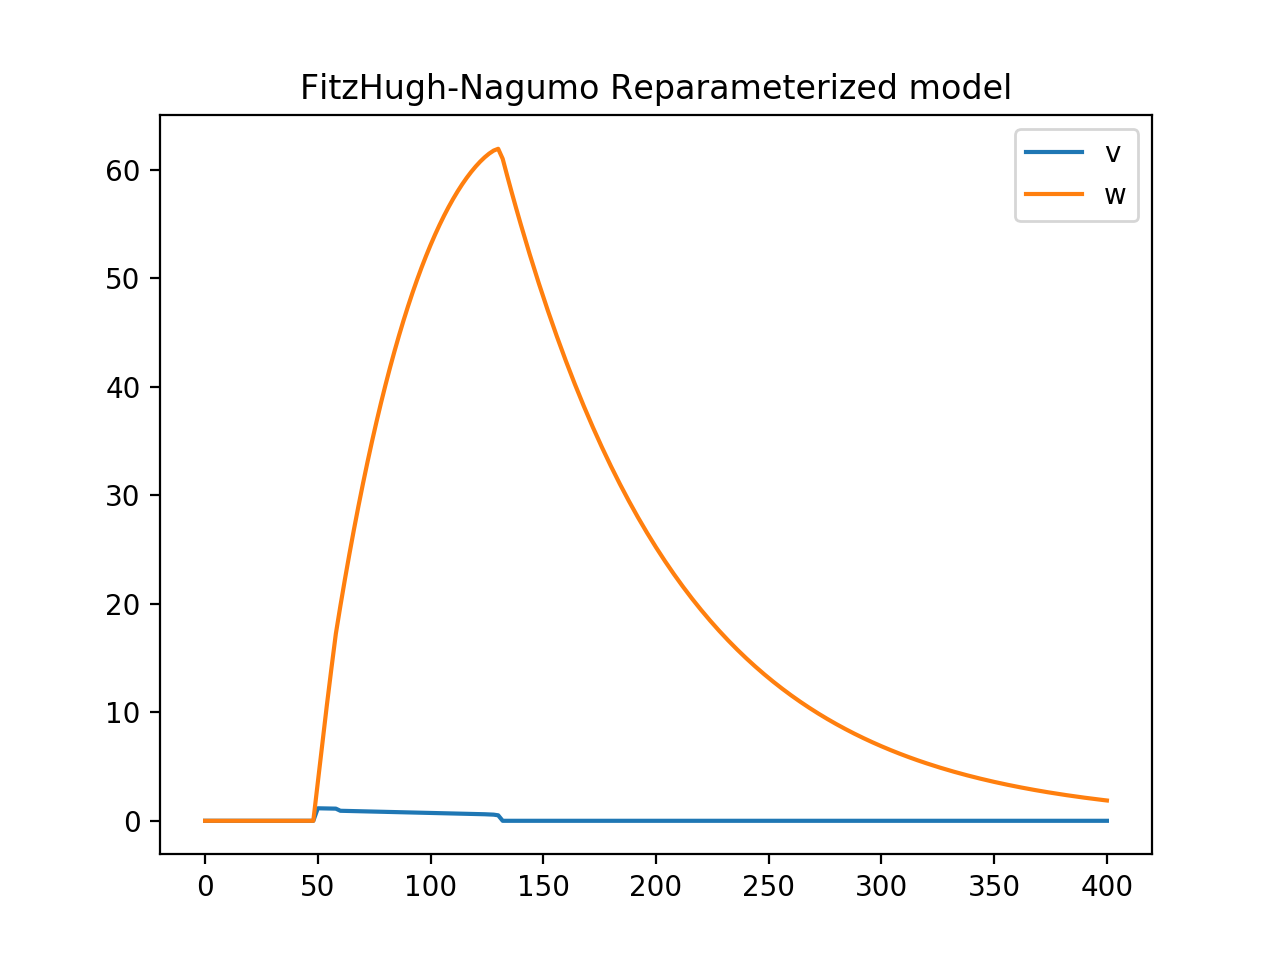
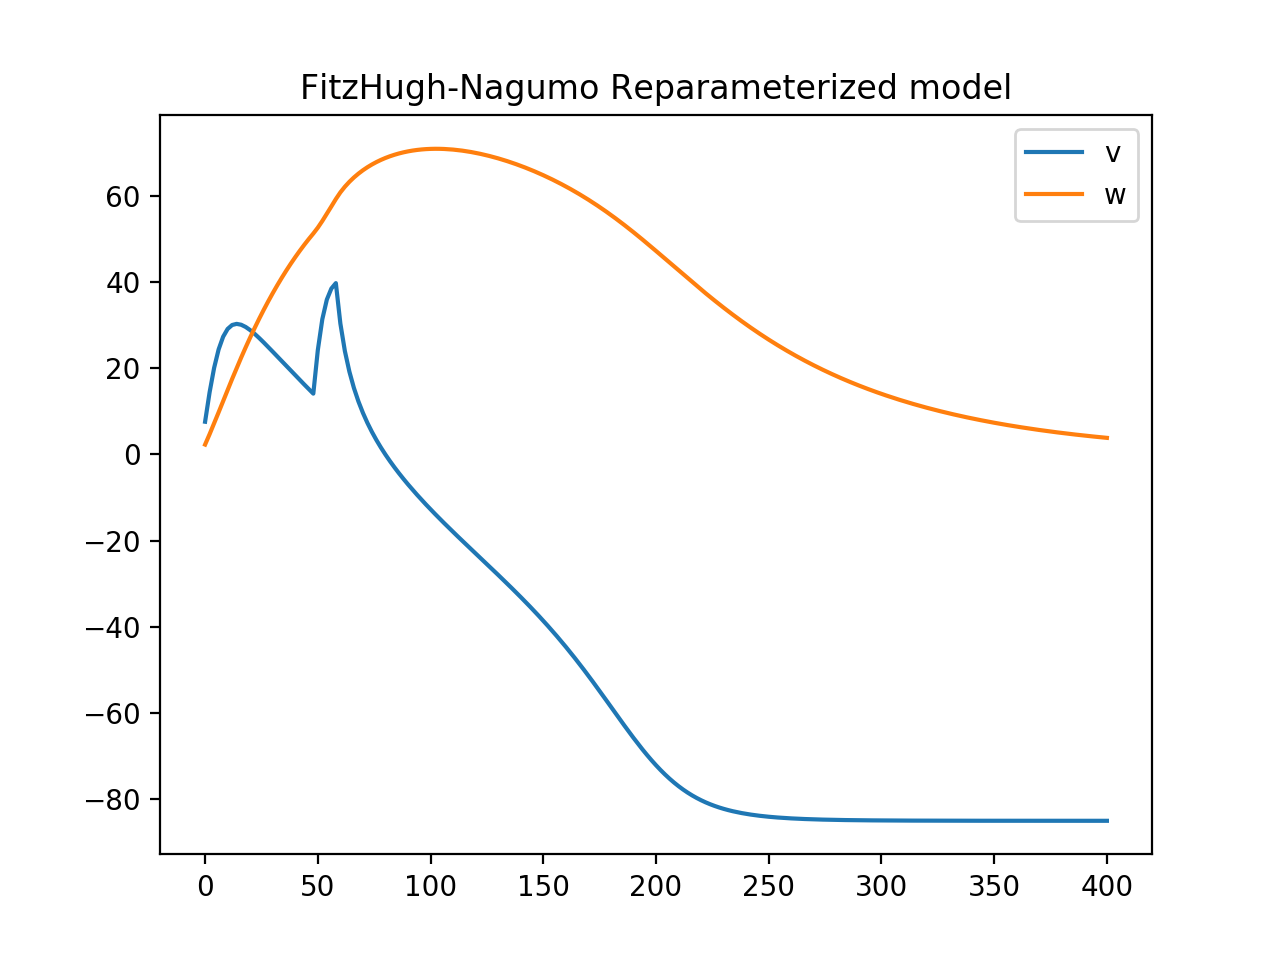
Add files via upload

diff --git a/fitzhugh_nagumo.py b/fitzhugh_nagumo.py
@@ -34,13 +34,10 @@ def fitzhugh_nagumo_reparameterized(v, t):
     v_amp = v_peak - v_rest
     v_th = v_rest + a*v_amp
 
-    V = v_amp*v[0] + v_rest
-
-    W = v_amp*v[1]
     I_app = v_amp * i_app
 
-    dVdt = c1*(V - v_rest)*(V - v_th)*(v_peak - V)/(v_amp**2) - (c2*(V - v_rest)*v[1])/v_amp
-    dWdt = b*(V - v_rest - c3*v[1])
+    dVdt = c1*(v[0] - v_rest)*(v[0] - v_th)*(v_peak - v[0])/(v_amp**2) - (c2*(v[0] - v_rest)*v[1])/v_amp
+    dWdt = b*(v[0] - v_rest - c3*v[1])
 
 
     if t >= 50 and t <= 60:
